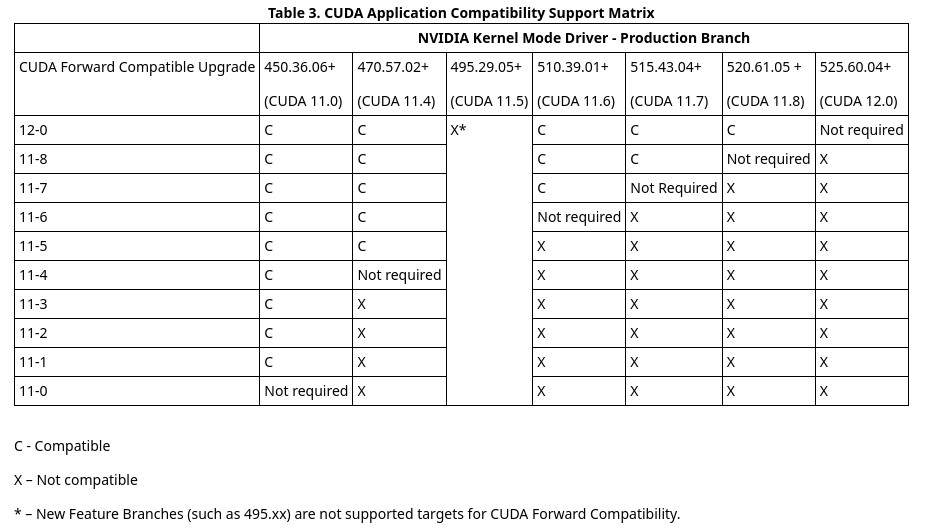
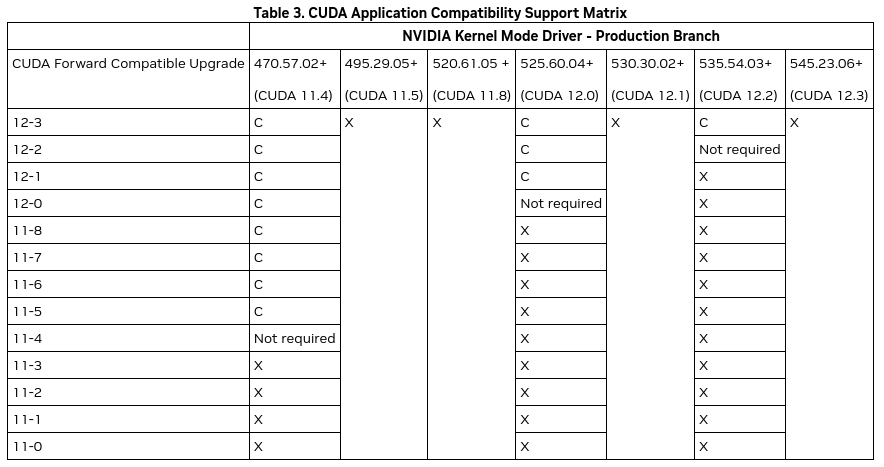
update cuda guide

diff --git a/how_to_install_cuda.md b/how_to_install_cuda.md
@@ -2,9 +2,13 @@
 ## Шаг 1
 Перейдите на сайт <https://pytorch.org/> найдите подходящую версию *cuda* для ваших нужд (зависит от модели или пакетов). 
 ## Шаг 2 
-Сверьтесь с таблицей. Найдите версию драйвера для вашей видеокарты совместирую с выбранной версией *cuda*.
+Сверьтесь с таблицей. Найдите версию драйвера для вашей видеокарты совместирую с выбранной версией *cuda*. Актуальную версию таблицы всегда можно найти [здесь](https://docs.nvidia.com/deploy/cuda-compatibility/index.html#binary-compatibility__table-toolkit-driver)
 
 ![Screenshot](cuda_compatible.png)
+
+Чтобы узнать версию текущего установленного драйвера, воспользуйтесь командой:
+
+    nvidia-smi
 
 ## Шаг 3
 Проверьте, какие версии драйверов доступны для вашей видеокарты *Nvidia*.
@@ -26,7 +30,7 @@
 
     sudo apt install nvidia-cuda-toolkit
 
-Если вам также нужны заголовочные файлы для разработки, то понадобится дополнительно установить пакет nvidia-cuda-dev:
+Для установки *PyTorch* необходим пакет nvidia-cuda-dev:
 
     sudo apt install nvidia-cuda-dev
     
@@ -37,7 +41,13 @@
 ## Шаг 7
 Перезагрузите компьютер. Вернитесь на сайт <https://pytorch.org/> и получите команду для установки *PyTorch*.
 ## Шаг 8 
-Проверьте работу, узнав, доступна ли *cuda* в фреймворке *PyTorch*:
+Проверьте работу, узнав, доступна ли *cuda* в фреймворке *PyTorch*. Для этого запустите интерпритатор питона следующей командой в терминале:
+
+    python3
+
+А затем, выполнители следующие команды для проверки:
 
     import torch
     torch.cuda.is_available()
+    
+Если вы получили *True*, то все установилось верно.
